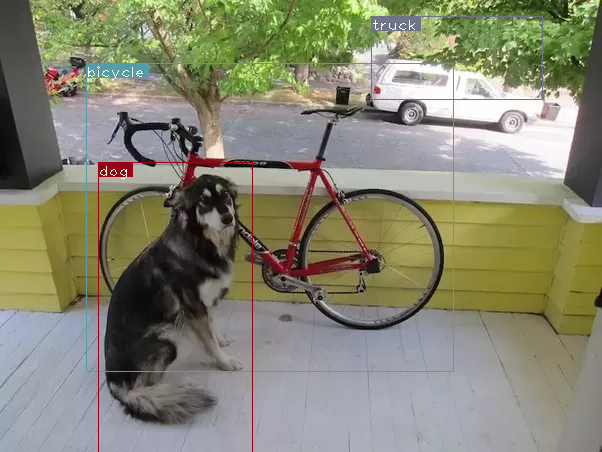
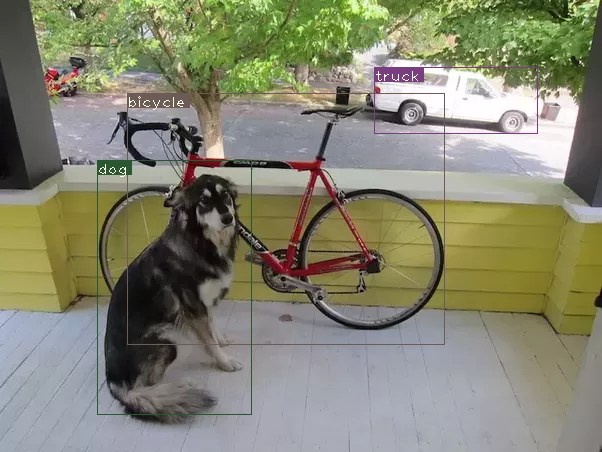
Fix util mistakes

diff --git a/util.py b/util.py
@@ -83,8 +83,8 @@ def bbox_iou(box1, box2):
     # Get the coordinates of the intersection rectangle
     int_rect_x1 = torch.max(b1_x1, b2_x1)
     int_rect_y1 = torch.max(b1_y1, b2_y1)
-    int_rect_x2 = torch.max(b1_x2, b2_x2)
-    int_rect_y2 = torch.max(b1_y2, b2_y2)
+    int_rect_x2 = torch.min(b1_x2, b2_x2)
+    int_rect_y2 = torch.min(b1_y2, b2_y2)
 
     # Intersection area
     int_area = torch.clamp(int_rect_x2 - int_rect_x1 + 1, min=0) * torch.clamp(int_rect_y2 - int_rect_y1 + 1, min=0)
@@ -134,6 +134,9 @@ def write_results(prediction, confidence, num_classes, nms_conf=0.4):
         try:
             image_pred_ = image_pred[non_zero_ind.squeeze(), :].view(-1, 7)
         except:
+            continue
+
+        if image_pred_.shape[0] == 0:
             continue
 
         # Get the various classes detected in the image
@@ -211,8 +214,7 @@ def letterbox_images(img, inp_dim):
 
 def prep_image(img, inp_dim):
     # Prepare image for inputting to the neural network
-
-    img = cv2.resize(img, (inp_dim, inp_dim))
+    img = (letterbox_images(img, (inp_dim, inp_dim)))
     img = img[:, :, ::-1].transpose((2, 0, 1)).copy()
     img = torch.from_numpy(img).float().div(255.0).unsqueeze(0)
 
